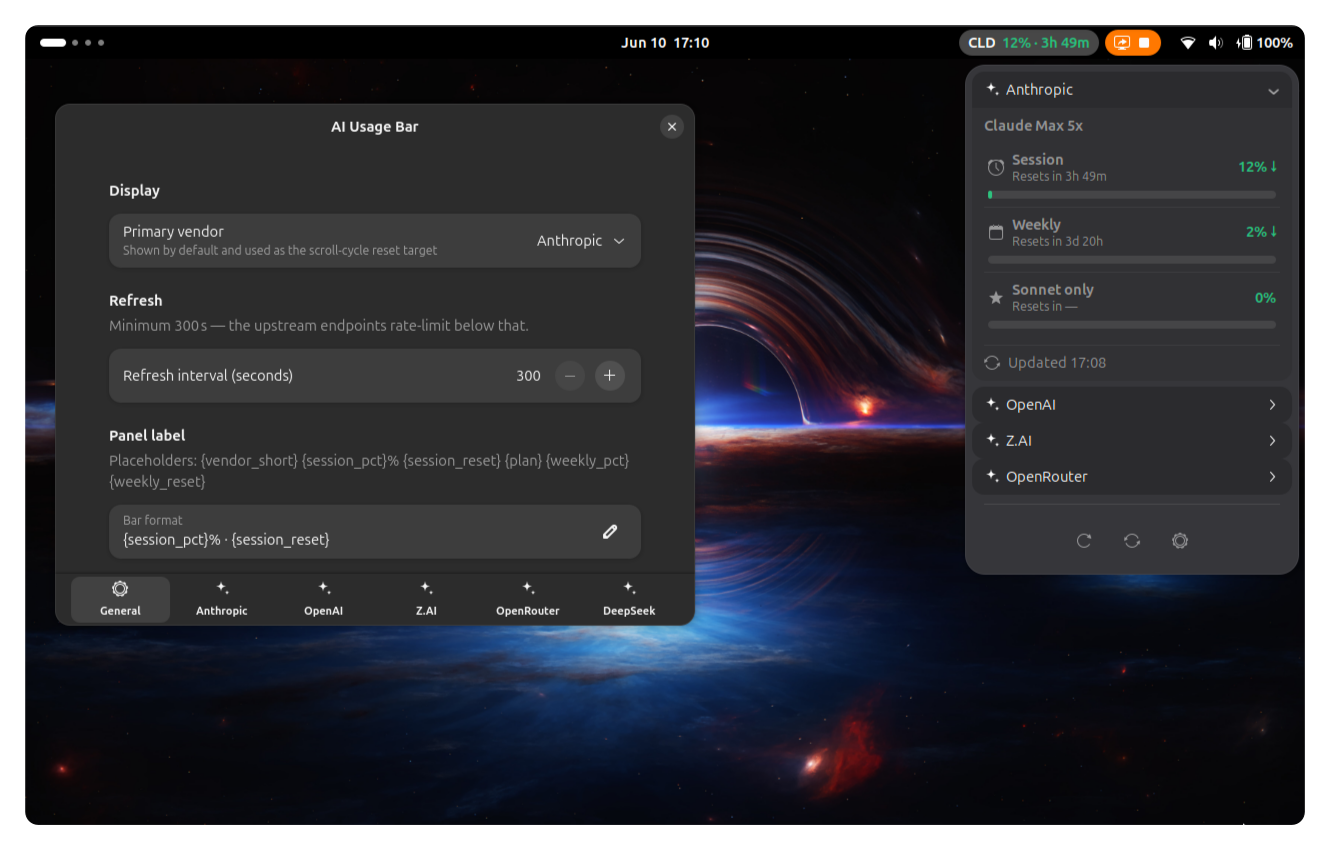
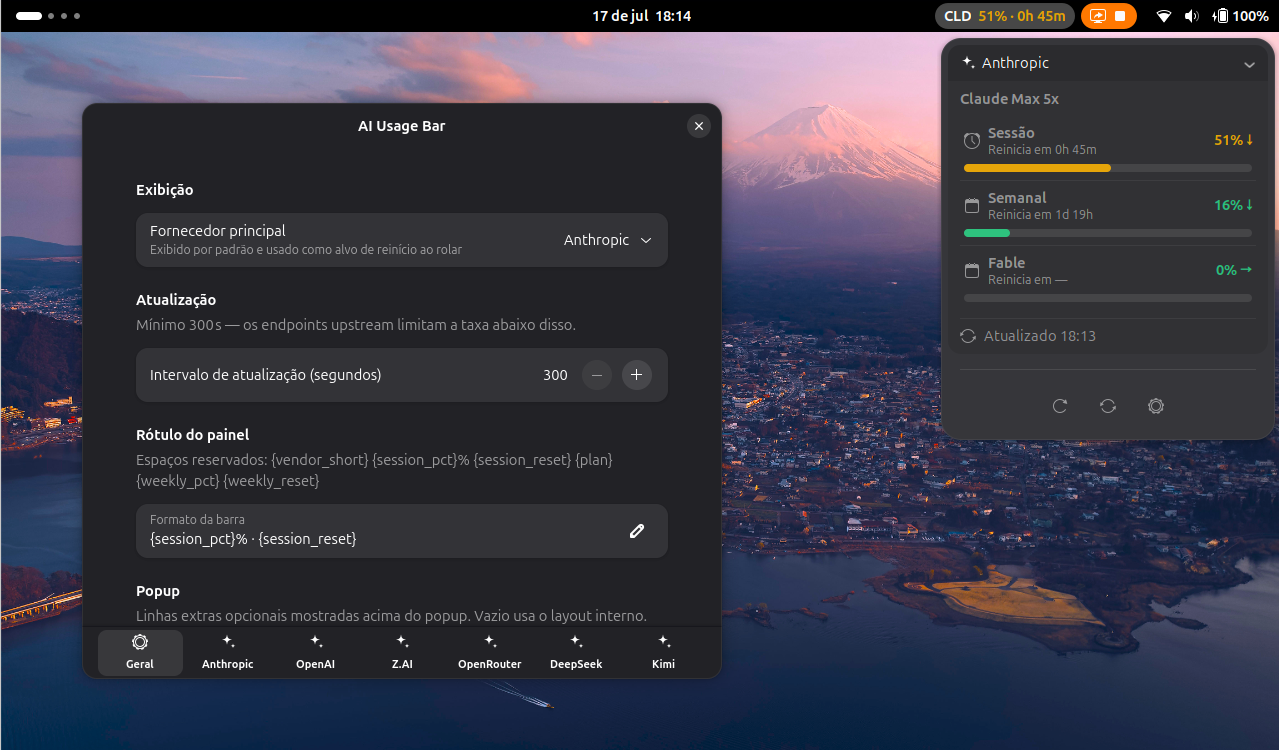
docs: mention Kimi in the README and refresh the preview screenshot
Add Kimi to every vendor list (intro, supported-vendors table, auth env vars,
per-vendor config, credits/trademarks + the KMI short code), bump "five vendors"
to six, and update the screenshot to show the Kimi section.

diff --git a/README.md b/README.md
@@ -1,8 +1,8 @@
 # AI Usage Bar
 
-A GNOME Shell extension that shows your AI plan usage in the top panel for five
+A GNOME Shell extension that shows your AI plan usage in the top panel for six
 vendors — **Anthropic (Claude)**, **OpenAI (Codex)**, **Z.AI / GLM**,
-**OpenRouter**, and **DeepSeek**.
+**OpenRouter**, **DeepSeek**, and **Kimi**.
 
 ## Overview
 
@@ -22,6 +22,7 @@ button to cycle between them.
 | **Z.AI / GLM**         | Plan usage and reset windows                     | API key (env var or prefs entry)                                     |
 | **OpenRouter**         | Credit balance and usage                         | API key (env var or prefs entry)                                     |
 | **DeepSeek**           | Balance / credits                                | API key (env var or prefs entry)                                     |
+| **Kimi**               | Weekly quota + 5h window usage %, reset countdowns, plan | API key (env var or prefs entry)                             |
 
 Only the **active** vendor is polled on the refresh timer; other enabled vendors
 render from the last fetched result and are refreshed lazily on scroll-cycle or
@@ -70,10 +71,10 @@ sent anywhere except the vendor's own usage endpoint.
 - **OpenAI (Codex).** Reads OAuth credentials from `~/.codex/auth.json`. An
   optional admin API key (default env var `OPENAI_ADMIN_KEY`) can be set for
   organization-level usage. The auth path is configurable in preferences.
-- **Z.AI / GLM, OpenRouter, DeepSeek.** Use an API key. The key is resolved in
-  this order:
+- **Z.AI / GLM, OpenRouter, DeepSeek, Kimi.** Use an API key. The key is resolved
+  in this order:
   1. the named **environment variable** (defaults `ZAI_API_KEY`,
-     `OPENROUTER_API_KEY`, `DEEPSEEK_API_KEY`) if it is set;
+     `OPENROUTER_API_KEY`, `DEEPSEEK_API_KEY`, `KIMI_API_KEY`) if it is set;
   2. otherwise the **inline key** entered in preferences;
   3. otherwise the vendor reports a configuration error in its popup section.
 
@@ -85,7 +86,7 @@ gear button in the popup footer). The prefs window exposes:
 - **Primary vendor** — the default active vendor on startup.
 - **Refresh interval** — seconds between polls (minimum 300; the vendor
   endpoints rate-limit below that).
-- **Per-vendor enable** — toggle each of the five vendors on or off; only enabled
+- **Per-vendor enable** — toggle each of the six vendors on or off; only enabled
   vendors appear in the popup and the scroll cycle.
 - **Panel label format** (`bar-format`) — a template with `{token}` placeholders,
   e.g. the default `{session_pct}% · {session_reset}`. The active vendor's
@@ -97,7 +98,7 @@ gear button in the popup footer). The prefs window exposes:
 - **Pace marker** — show an on-/off-pace indicator comparing usage against
   elapsed time in the window.
 - **Per-vendor auth** — credentials path (Anthropic/OpenAI), API-key env-var name
-  and inline key (Z.AI/OpenRouter/DeepSeek), and Z.AI plan tier.
+  and inline key (Z.AI/OpenRouter/DeepSeek/Kimi), and Z.AI plan tier.
 
 ## Privacy & security
 
@@ -159,19 +160,20 @@ Contributions and bug reports are welcome at the project repository:
 
 This extension is an independent GNOME Shell port inspired by the
 [`akitaonrails/ai-usagebar`](https://github.com/akitaonrails/ai-usagebar) Waybar
-widget. Vendor names (Claude, OpenAI, Z.AI/GLM, OpenRouter, DeepSeek) are used
-nominatively to identify each provider; no affiliation or endorsement is implied.
+widget. Vendor names (Claude, OpenAI, Z.AI/GLM, OpenRouter, DeepSeek, Kimi) are
+used nominatively to identify each provider; no affiliation or endorsement is
+implied.
 
 ## Trademarks & logos
 
 This extension bundles **no vendor logos**. It ships a single generic symbolic
 mark ([`icons/ai-symbolic.svg`](icons/ai-symbolic.svg)) and identifies each
 provider by name only —
-Claude, OpenAI, Z.AI/GLM, OpenRouter, DeepSeek — used nominatively to say which
-service a panel entry refers to. No affiliation with, sponsorship by, or
+Claude, OpenAI, Z.AI/GLM, OpenRouter, DeepSeek, Kimi — used nominatively to say
+which service a panel entry refers to. No affiliation with, sponsorship by, or
 endorsement from those companies is implied; this project is not affiliated with
-any of them. The short codes shown in the panel (CLD, GPT, ZAI, OPR, DSK) are
-plain abbreviations, not brand marks.
+any of them. The short codes shown in the panel (CLD, GPT, ZAI, OPR, DSK, KMI)
+are plain abbreviations, not brand marks.
 
 ## License
 
